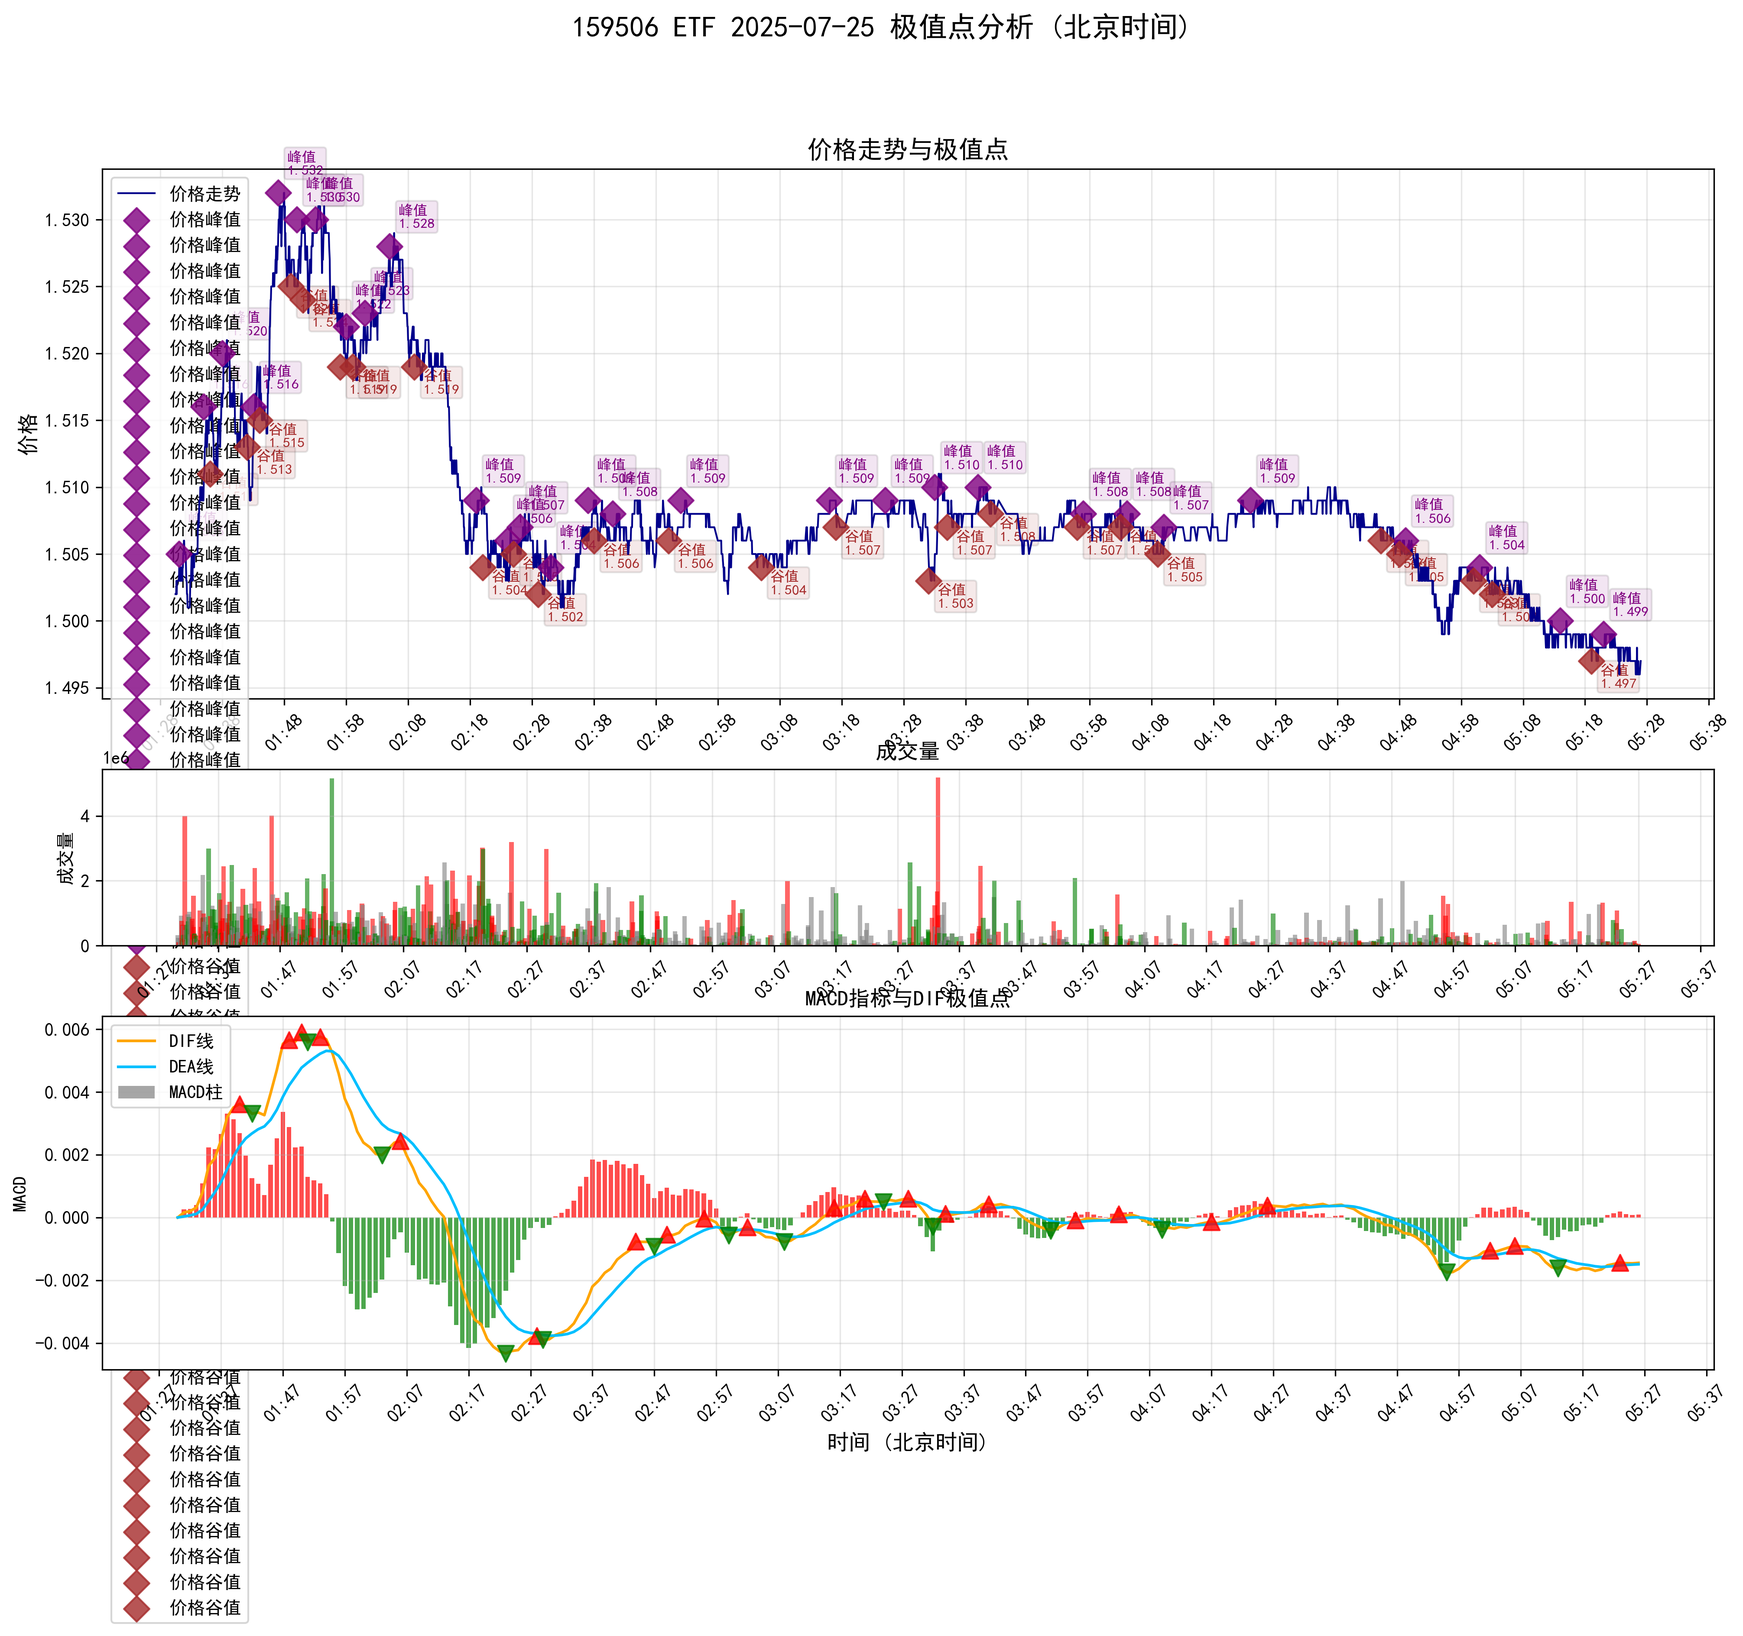
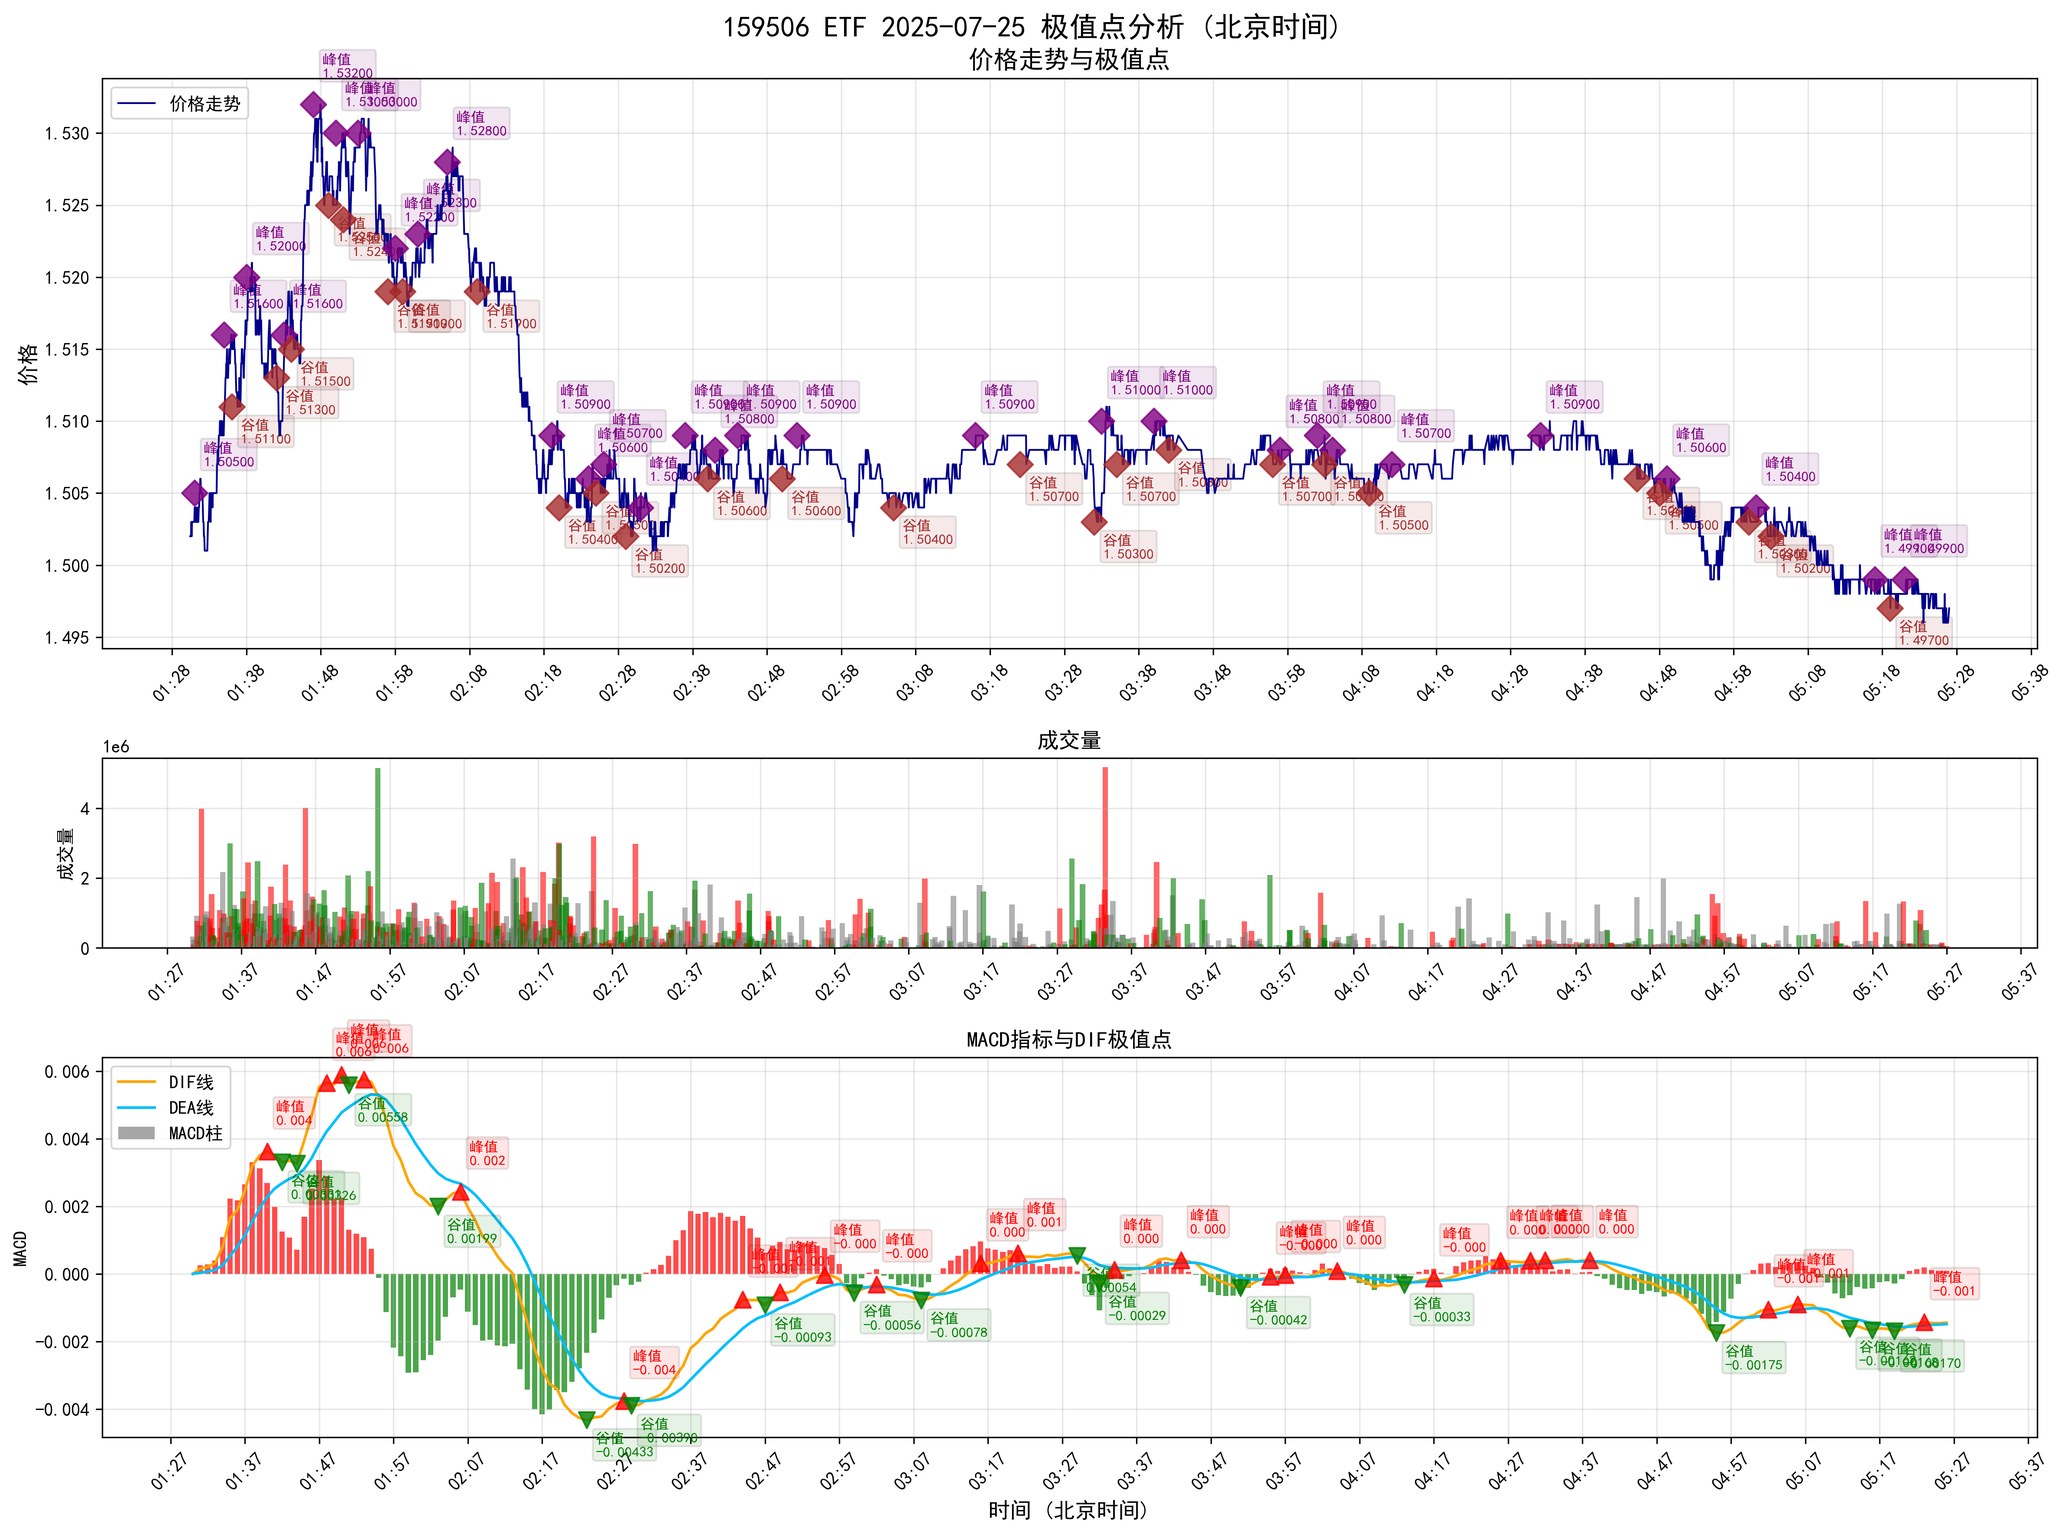
1

diff --git a/etf_159506_strategy.py b/etf_159506_strategy.py
@@ -63,8 +63,7 @@ class ETF159506Strategy(Strategy):
         
         # 背离检测相关历史数据存储
         self.price_history = deque(maxlen=1000)  # 存储收盘价历史
-        self.price_timestamps = deque(maxlen=1000)  # 存储价格对应的时间戳
-        self.macd_timestamps = deque(maxlen=1000)  # 存储MACD对应的时间戳
+        self.timestamps = deque(maxlen=1000)  # 存储K线时间戳
         self.divergence_lookback = 30  # 背离检测的回看周期
         self.divergence_confirmation_bars = 3  # 背离确认所需的K线数
         self.last_divergence_signal = None  # 记录上一次背离信号类型
@@ -189,8 +188,7 @@ class ETF159506Strategy(Strategy):
             
             # 更新价格历史数据
             self.price_history.append(bar.close.as_double())
-            self.price_timestamps.append(bar.ts_event)
-            self.macd_timestamps.append(bar.ts_event)
+            self.timestamps.append(bar.ts_event)
         else:
             self._log.info(f"MACD指标已初始化，使用官方指标值")
             
@@ -259,8 +257,7 @@ class ETF159506Strategy(Strategy):
         
         # 更新价格历史数据（用于背离检测）
         self.price_history.append(bar.close.as_double())
-        self.price_timestamps.append(bar.ts_event)
-        self.macd_timestamps.append(bar.ts_event)
+        self.timestamps.append(bar.ts_event)
                 
         # 记录当前指标值
         self._log.info(f"DIF: {macd_value:.6f}, DEA: {signal_value:.6f}, MACD柱: {histogram_value:.6f}")
@@ -503,16 +500,9 @@ class ETF159506Strategy(Strategy):
         
         return False
     
-    # 移除不再使用的峰值和谷值查找方法
     
-    # 移除复杂的曲率和斜率计算方法，使用简单的前后点比较
-    
-    # 移除不再使用的时间窗口极值检测方法
-    
-
-    
-    def _is_relative_extreme(self, extreme_type, current_value, current_timestamp, data_type='price', min_extreme_distance=None):
-        """检查当前值是否相对于上一个极值点是真正的极值
+    def _is_relative_extreme(self, extreme_type, prev_value, prev_timestamp, data_type='price', min_extreme_distance=None):
+        """检查前值是否相对于上一个极值点是真正的极值
         
         规则：
         1. 如果新极值与上一个不同类型极值差异太小，则略过当前极值
@@ -520,8 +510,8 @@ class ETF159506Strategy(Strategy):
         
         Args:
             extreme_type: 极值类型 ('peak' 或 'trough')
-            current_value: 当前值
-            current_timestamp: 当前时间戳
+            prev_value: 前一个值
+            prev_timestamp: 前一个时间戳
             data_type: 数据类型 ('price' 或 'macd')
             min_extreme_distance: 最小极值距离（如果为None，则根据数据类型自动设置）
         """
@@ -530,7 +520,7 @@ class ETF159506Strategy(Strategy):
             if data_type == 'price':
                 min_extreme_distance = 0.001  # 价格最小差异0.001元
             else:  # data_type == 'macd'
-                min_extreme_distance = 0.0001  # DIF最小差异0.0001
+                min_extreme_distance = 0.00001  # DIF最小差异0.00001
         # 根据数据类型选择对应的历史记录
         if data_type == 'price':
             history = self.price_extremes_history
@@ -549,7 +539,7 @@ class ETF159506Strategy(Strategy):
         # 如果新极值与上一个极值类型不同
         if extreme_type != last_extreme_type:
             # 计算与上一个极值的绝对差异
-            diff_absolute = abs(current_value - last_extreme_value)
+            diff_absolute = abs(prev_value - last_extreme_value)
             
             # 如果差异太小，略过当前极值
             if diff_absolute < min_extreme_distance:
@@ -561,54 +551,48 @@ class ETF159506Strategy(Strategy):
         # 如果新极值与上一个极值类型相同
         else:
             # 计算与上一个极值的绝对差异
-            diff_absolute = abs(current_value - last_extreme_value)
-            
-            # 如果差异太小，略过当前极值
-            if diff_absolute < min_extreme_distance:
-                return False, None
+            diff_absolute = abs(prev_value - last_extreme_value)
             
             # 根据极值类型决定保留策略
             if extreme_type == 'peak':
                 # 峰值：保留更大的值
-                if current_value > last_extreme_value:
+                if prev_value > last_extreme_value:
                     return True, 'keep'  # 保留新的
                 else:
                     return True, 'replace'  # 替换旧的
             else:  # extreme_type == 'trough'
                 # 谷值：保留更小的值
-                if current_value < last_extreme_value:
+                if prev_value < last_extreme_value:
                     return True, 'keep'  # 保留新的
                 else:
                     return True, 'replace'  # 替换旧的
-        
-        return False, None
     
-    def _detect_extreme(self, data, current_index):
+    def _detect_extreme(self, data, prev_index):
         """检测极值点（基于前后点比较的简单方法）"""
         # 修改边界条件：允许检测最后一个点，但需要确保有足够的数据进行比较
-        if current_index < 1:
+        if prev_index < 1:
             return False, None
         
         # 如果是最后一个点，暂时不检测（等待下一个点到来）
-        if current_index >= len(data) - 1:
+        if prev_index >= len(data) - 1:
             return False, None
         
         # 使用简单的极值检测逻辑：比较当前点与前后点的值
-        current_value = data[current_index]
-        prev_value = data[current_index - 1]
-        next_value = data[current_index + 1]
-        
+        prev_value = data[prev_index]
+        prev_prev_value = data[prev_index - 1]
+        current_value = data[prev_index + 1]
+
         # 添加调试信息
-        self._log.debug(f"极值检测: 前值={prev_value:.6f}, 当前值={current_value:.6f}, 后值={next_value:.6f}")
+        self._log.debug(f"极值检测: 前值={prev_value:.6f}, 前前值={prev_prev_value:.6f}, 当前值={current_value:.6f}")
         
         # 检测峰值：当前值比前后值都大
-        if current_value > prev_value and current_value > next_value:
-            self._log.info(f"检测到峰值: {current_value:.6f} > {prev_value:.6f} 且 {current_value:.6f} > {next_value:.6f}")
+        if prev_value > prev_prev_value and prev_value > current_value:
+            self._log.info(f"检测到峰值: {prev_value:.6f} > {prev_prev_value:.6f} 且 {prev_value:.6f} > {current_value:.6f}")
             return True, 'peak'
         
         # 检测谷值：当前值比前后值都小
-        elif current_value < prev_value and current_value < next_value:
-            self._log.info(f"检测到谷值: {current_value:.6f} < {prev_value:.6f} 且 {current_value:.6f} < {next_value:.6f}")
+        elif prev_value < prev_prev_value and prev_value < current_value:
+            self._log.info(f"检测到谷值: {prev_value:.6f} < {prev_prev_value:.6f} 且 {prev_value:.6f} < {current_value:.6f}")
             return True, 'trough'
         
         return False, None
@@ -628,9 +612,9 @@ class ETF159506Strategy(Strategy):
         # 检测上一个价格点的极值（延迟检测）
         if len(self.price_history) >= 2:
             prev_price_index = len(self.price_history) - 2  # 上一个价格点的索引
-            prev_price_timestamp = self.price_timestamps[-2] if len(self.price_timestamps) >= 2 else current_timestamp
+            prev_price_timestamp = self.timestamps[-2] if len(self.timestamps) >= 2 else current_timestamp
             prev_price = self.price_history[-2]
-            
+            prev_macd = self.macd_history[-2]
             price_extreme, price_type = self._detect_extreme(self.price_history, prev_price_index)
             if price_extreme:
                 self._log.info(f"检测到价格极值点: 类型={price_type}, 价格={prev_price:.4f}")
@@ -661,15 +645,15 @@ class ETF159506Strategy(Strategy):
                     
                     # 无论是replace还是keep，都需要添加新极值点
                     if price_type == 'peak':
-                        self.price_peaks.append((prev_price_timestamp, prev_price, current_macd))
+                        self.price_peaks.append((prev_price_timestamp, prev_price, prev_macd))
                         # 同时更新价格极值点历史
                         self.price_extremes_history.append((prev_price_timestamp, prev_price, 'peak'))
-                        self._log.debug(f"检测到新价格峰值: 时间{prev_price_timestamp}, 价格{prev_price:.4f}, DIF{current_macd:.6f}")
+                        self._log.debug(f"检测到新价格峰值: 时间{prev_price_timestamp}, 价格{prev_price:.4f}, DIF{prev_macd:.6f}")
                     else:  # price_type == 'trough'
-                        self.price_troughs.append((prev_price_timestamp, prev_price, current_macd))
+                        self.price_troughs.append((prev_price_timestamp, prev_price, prev_macd))
                         # 同时更新价格极值点历史
                         self.price_extremes_history.append((prev_price_timestamp, prev_price, 'trough'))
-                        self._log.debug(f"检测到新价格谷值: 时间{prev_price_timestamp}, 价格{prev_price:.4f}, DIF{current_macd:.6f}")
+                        self._log.debug(f"检测到新价格谷值: 时间{prev_price_timestamp}, 价格{prev_price:.4f}, DIF{prev_macd:.6f}")
                     
                     # 简化后不再需要清理极值点
                 else:
@@ -680,9 +664,9 @@ class ETF159506Strategy(Strategy):
         # 检测上一个MACD点的极值（延迟检测）
         if len(self.macd_history) >= 2:
             prev_macd_index = len(self.macd_history) - 2  # 上一个MACD点的索引
-            prev_macd_timestamp = self.macd_timestamps[-2] if len(self.macd_timestamps) >= 2 else current_timestamp
+            prev_macd_timestamp = self.timestamps[-2] if len(self.timestamps) >= 2 else current_timestamp
             prev_macd = self.macd_history[-2]
-            
+            prev_price = self.price_history[-2]
             macd_extreme, macd_type = self._detect_extreme(self.macd_history, prev_macd_index)
             if macd_extreme:
                 self._log.info(f"检测到DIF极值点: 类型={macd_type}, DIF={prev_macd:.6f}")
@@ -712,18 +696,16 @@ class ETF159506Strategy(Strategy):
                     
                     # 添加新极值点
                     if macd_type == 'peak':
-                        self.dif_peaks.append((prev_macd_timestamp, prev_macd, current_price))
+                        self.dif_peaks.append((prev_macd_timestamp, prev_macd, prev_price))
                         # 同时更新MACD极值点历史
                         self.macd_extremes_history.append((prev_macd_timestamp, prev_macd, 'peak'))
-                        self._log.debug(f"检测到新DIF峰值: 时间{prev_macd_timestamp}, DIF{prev_macd:.6f}, 价格{current_price:.4f}")
+                        self._log.debug(f"检测到新DIF峰值: 时间{prev_macd_timestamp}, DIF{prev_macd:.6f}, 价格{prev_price:.4f}")
                     else:  # macd_type == 'trough'
-                        self.dif_troughs.append((prev_macd_timestamp, prev_macd, current_price))
+                        self.dif_troughs.append((prev_macd_timestamp, prev_macd, prev_price))
                         # 同时更新MACD极值点历史
                         self.macd_extremes_history.append((prev_macd_timestamp, prev_macd, 'trough'))
-                        self._log.debug(f"检测到新DIF谷值: 时间{prev_macd_timestamp}, DIF{prev_macd:.6f}, 价格{current_price:.4f}")
+                        self._log.debug(f"检测到新DIF谷值: 时间{prev_macd_timestamp}, DIF{prev_macd:.6f}, 价格{prev_price:.4f}")
                     
-                    # 无论是replace还是keep，都需要添加新极值点
-                    # 简化后不再需要清理极值点
                     self.check_divergence(bar)
                 else:
                     self._log.debug(f"略过DIF{macd_type}: 时间{prev_macd_timestamp}, DIF{prev_macd:.6f} (差异太小)")

diff --git a/etf_159506_catalog_loader.py b/etf_159506_catalog_loader.py
@@ -1731,9 +1731,9 @@ class ETF159506RedisKlineGenerator:
                                        color='purple', marker='D', s=100, label='', zorder=25, alpha=0.8)
                             
                             # 添加峰值标注
-                            ax1.annotate(f'峰值\n{peak_price:.3f}', 
+                            ax1.annotate(f'峰值\n{peak_price:.5f}', 
                                        xy=(mapped_peak_time, peak_price),
-                                       xytext=(5, 10), textcoords='offset points',
+                                       xytext=(5, 15), textcoords='offset points',
                                        fontsize=8, color='purple', weight='bold',
                                        bbox=dict(boxstyle='round,pad=0.2', facecolor='purple', alpha=0.1))
                             
@@ -1773,9 +1773,9 @@ class ETF159506RedisKlineGenerator:
                                        color='brown', marker='D', s=100, label='', zorder=25, alpha=0.8)
                             
                             # 添加谷值标注
-                            ax1.annotate(f'谷值\n{trough_price:.3f}', 
+                            ax1.annotate(f'谷值\n{trough_price:.5f}', 
                                        xy=(mapped_trough_time, trough_price),
-                                       xytext=(5, -15), textcoords='offset points',
+                                       xytext=(5, -20), textcoords='offset points',
                                        fontsize=8, color='brown', weight='bold',
                                        bbox=dict(boxstyle='round,pad=0.2', facecolor='brown', alpha=0.1))
                             
@@ -1867,6 +1867,12 @@ class ETF159506RedisKlineGenerator:
                             # 绘制DIF峰值点（红色三角形）
                             ax3.scatter(mapped_peak_time, peak_dif, 
                                        color='red', marker='^', s=80, label='', zorder=25, alpha=0.8)
+                            # 添加峰值标注
+                            ax3.annotate(f'峰值\n{peak_dif:.3f}', 
+                                       xy=(mapped_peak_time, peak_dif),
+                                       xytext=(5, 15), textcoords='offset points',
+                                       fontsize=8, color='red', weight='bold',
+                                       bbox=dict(boxstyle='round,pad=0.2', facecolor='red', alpha=0.1))
                             
                         except Exception as e:
                             logger.warning(f"处理DIF峰值点失败: {e}")
@@ -1902,6 +1908,12 @@ class ETF159506RedisKlineGenerator:
                             # 绘制DIF谷值点（绿色三角形）
                             ax3.scatter(mapped_trough_time, trough_dif, 
                                        color='green', marker='v', s=80, label='', zorder=25, alpha=0.8)
+                            # 添加峰值标注
+                            ax3.annotate(f'谷值\n{trough_dif:.5f}', 
+                                       xy=(mapped_trough_time, trough_dif),
+                                       xytext=(5, -20), textcoords='offset points',
+                                       fontsize=8, color='green', weight='bold',
+                                       bbox=dict(boxstyle='round,pad=0.2', facecolor='green', alpha=0.1))
                             
                         except Exception as e:
                             logger.warning(f"处理DIF谷值点失败: {e}")
